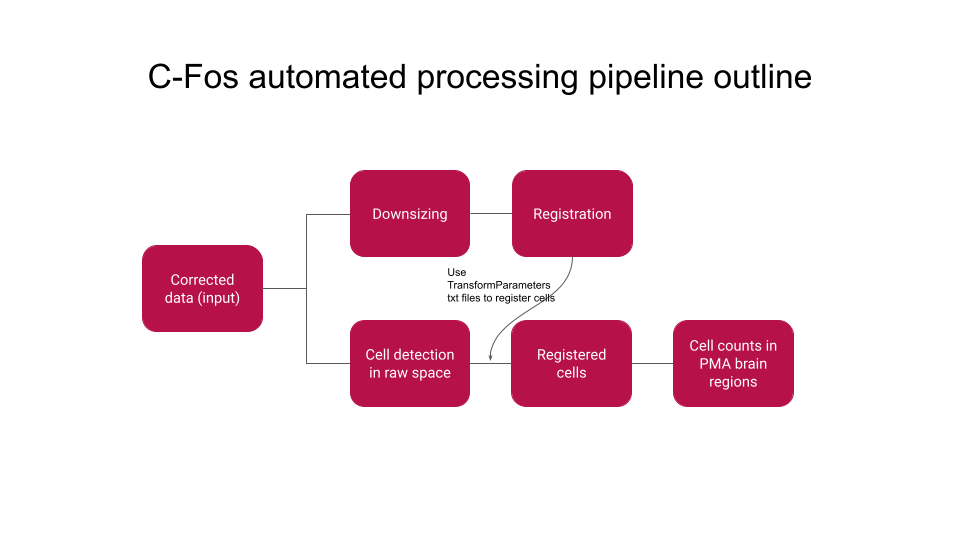
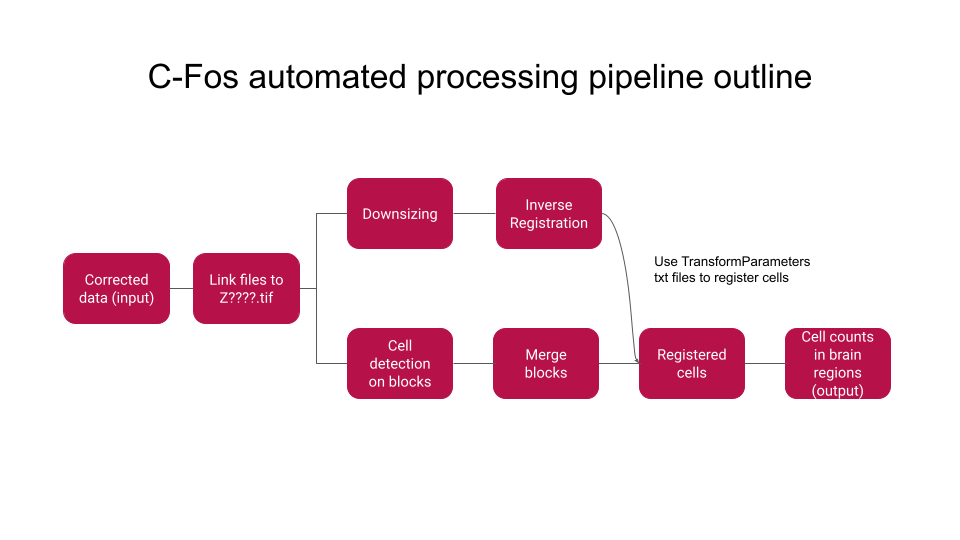
update pipeline figure; downsizing/reg steps now in 2 array jobs

diff --git a/clearmap2/pipeline/cfos_cell_detection_pipeline/downsizing/spim_downsize.py b/clearmap2/pipeline/cfos_cell_detection_pipeline/downsizing/spim_downsize.py
@@ -6,7 +6,7 @@ Created on Mon Jul 20 12:04:02 2020
 @author: wanglab
 """
 
-import os, numpy as np, tifffile as tif, SimpleITK as sitk, cv2, multiprocessing as mp, shutil, sys
+import os, numpy as np, tifffile, SimpleITK as sitk, cv2, multiprocessing as mp, shutil, sys
 from scipy.ndimage import zoom
 
 cwd = os.getcwd()
@@ -15,15 +15,16 @@ sys.path.append(utils_fld)
 from pipeline_utils import fast_scandir
 
 def resize_helper(img, dst, resizef):
-	print(os.path.basename(img))
+	# print(os.path.basename(img))
 	savename = os.path.join(dst, os.path.basename(img))
 	if os.path.exists(savename):
 		return
-	im = sitk.GetArrayFromImage(sitk.ReadImage(img))
+	# print(img)
+	im = tifffile.imread(img)
 	y,x = im.shape
 	yr = int(y/resizef); xr = int(x/resizef)
 	im = cv2.resize(im, (xr, yr), interpolation=cv2.INTER_LINEAR)
-	tif.imsave(savename,im.astype("uint16"), compress=1)
+	tifffile.imsave(savename,im.astype("uint16"), compress=1)
 	return "success"
 
 if __name__ == "__main__":
@@ -49,12 +50,9 @@ if __name__ == "__main__":
 	channel = channels[array_id]
 	smartspim_prefix = smartspim_prefix_dict[channel]
 	print(f"Downsizing Channel: {channel}")
-	corrected_dir_toplevel = os.path.join(src_dir,f"{smartspim_prefix}_corrected")
-	try:
-		corrected_dir = fast_scandir(corrected_dir_toplevel)[-1] #gets to the end of directory tree
-	except:
-		corrected_dir = corrected_dir_toplevel #if images already in first directory
-	print("\nPath to stitched images: %s\n" % corrected_dir)
+	corrected_dir = os.path.join(output_rootpath,request_name,sample_name,
+		f"imaging_request_1/rawdata/resolution_3.6x/{smartspim_prefix}_corrected")
+	print("\nPath to corrected images: %s\n" % corrected_dir)
 	#path to store downsized images
 	dst_dir_downsized = os.path.join(dst_dir,f"{smartspim_prefix}_downsized")
 	print("\nPath to storage directory: %s\n\n" % dst_dir_downsized)
@@ -66,33 +64,42 @@ if __name__ == "__main__":
 		os.mkdir(dst_dir_downsized_planes)
 		
 	imgs = [os.path.join(corrected_dir, xx) for xx in os.listdir(corrected_dir) if xx.endswith("tif") ]
+	# print(imgs[-10:])
+	print(len(imgs))
 	resizef = 5 #factor to downsize imgs by
 	iterlst = [(img, dst_dir_downsized_planes, resizef) for img in imgs]
-	
+	print(f"Resizing raw planes in x,y by a factor of {resizef}")
 	p = mp.Pool(n_cores)
 	p.starmap(resize_helper, iterlst)
 	p.terminate()
 	
 	#now downsample to 140% of atlas in x,y,z
-	imgs_downsized = [os.path.join(dst_dir_downsized, xx) for xx in os.listdir(dst_dir_downsized) if "tif" in xx]
+	imgs_downsized = [os.path.join(dst_dir_downsized_planes, xx) for xx in os.listdir(dst_dir_downsized_planes) if "tif" in xx]
 	imgs_downsized.sort()
 	z = len(imgs_downsized)
-	y,x = sitk.GetArrayFromImage(sitk.ReadImage(imgs_downsized[0])).shape
+	y,x = tifffile.imread(imgs_downsized[0]).shape
 	arr = np.zeros((z,y,x))
 	
-	atl = sitk.GetArrayFromImage(sitk.ReadImage(atlpth))
+	atl = tifffile.imread(atlpth)
 	atlz,atly,atlx = atl.shape #get shape, sagittal
 	#read all the downsized images into a single volume 
+	print("reading planes into a single volume")
+	sys.stdout.flush()
 	for i,img in enumerate(imgs_downsized):
-		if i%5000==0: print(i)
-		arr[i,:,:] = sitk.GetArrayFromImage(sitk.ReadImage(img)) #horizontal
+		if i%500==0: 
+			print(f"Plane {i+1}/{len(imgs_downsized)}")
+		try:
+			arr[i,:,:] = tifffile.imread(img) #horizontal
+		except:
+			print(img)
 	#switch to sagittal
 	arrsag = np.swapaxes(arr,2,0)
 	z,y,x = arrsag.shape
 	print((z,y,x))
 	print("\n**********downsizing....heavy!**********\n")
+	sys.stdout.flush()
 	
 	arrsagd = zoom(arrsag, ((atlz*1.4/z),(atly*1.4/y),(atlx*1.4/x)), order=1)
 	# shutil.rmtree(dst)
 	# os.mkdir(dst)
-	tif.imsave(os.path.join(dst_dir_downsized, f"downsized_for_atlas_ch{channel}.tif"), arrsagd.astype("uint16"))
+	tifffile.imsave(os.path.join(dst_dir_downsized, f"downsized_for_atlas_ch{channel}.tif"), arrsagd.astype("uint16"))

diff --git a/clearmap2/pipeline/cfos_cell_detection_pipeline/registration/spim_inverse_register.py b/clearmap2/pipeline/cfos_cell_detection_pipeline/registration/spim_inverse_register.py
@@ -1,0 +1,70 @@
+#!/usr/bin/env python3
+# -*- coding: utf-8 -*-
+"""
+Created on Tue Jul 21 16:01:17 2020
+
+@author: wanglab
+"""
+
+import sys,os
+sys.path.append("/jukebox/wang/ahoag/brainpipe")
+from tools.registration.register import elastix_command_line_call
+
+if __name__ == '__main__':
+	#takes 6 command line arguments max
+	array_id = int(os.environ["SLURM_ARRAY_TASK_ID"]) # 0 = atlas -> reg, 1 = reg -> cell
+	# array_id = 1 # 0 = atlas -> reg, 1 = reg -> cell
+	output_rootpath = '/jukebox/wang/ahoag/for_cz/clearmap2_test_output'
+
+	sample_dir = sys.argv[1].strip().rstrip("/")
+	request_name,sample_name = sample_dir.split('/')[-2:]
+	src = os.path.join(output_rootpath,request_name,sample_name,
+		"imaging_request_1/rawdata/resolution_3.6x")
+	reg = "Ex_488_Em_0"
+	cell = "Ex_642_Em_2"
+	n_cores = os.cpu_count()
+	
+	param_fld = "/jukebox/wang/ahoag/brainpipe/parameterfolder" 
+	atl = "/jukebox/LightSheetTransfer/atlas/sagittal_atlas_20um_iso.tif" # PMA 20 micron isotropic
+
+	out1 = os.path.join(src, "elastix_inverse_transform")
+	if not os.path.exists(out1):
+		os.mkdir(out1)
+	
+	if array_id == 0:
+
+		print("Doing inverse transform atlas -> reg")
+		#atlas to registration vol
+		#inverse transform
+		fx1 = os.path.join(src, "Ex_488_Em_0_downsized", "downsized_for_atlas_ch488.tif")
+		mv1 = atl
+		assert os.path.exists(fx1)
+		assert os.path.exists(mv1)
+		print("\nPath to downsized vol for inverse registration to atlas: %s" % fx1)
+		print("\nPath to atlas: %s" % mv1)
+		
+		
+		params = [os.path.join(param_fld, xx) for xx in os.listdir(param_fld)]
+		#run
+		e_out, transformfiles = elastix_command_line_call(fx1, mv1, out1, params)
+
+	elif array_id == 1:
+		#registration vol to cell vol
+		#inverse transform
+		print("Doing inverse transform reg -> cell")
+
+		mv2 = os.path.join(src, "Ex_488_Em_0_downsized","downsized_for_atlas_ch488.tif")
+		fx2 = os.path.join(src, "Ex_642_Em_2_downsized","downsized_for_atlas_ch642.tif")
+		
+		assert os.path.exists(fx2)
+		assert os.path.exists(mv2)
+		
+		out2 = os.path.join(out1,"488_to_642")
+		if not os.path.exists(out2): 
+			os.mkdir(out2)
+		
+		params = [os.path.join(param_fld, xx) for xx in os.listdir(param_fld)]
+		#run
+		e_out, transformfiles = elastix_command_line_call(fx2, mv2, out2, params)
+		
+		
